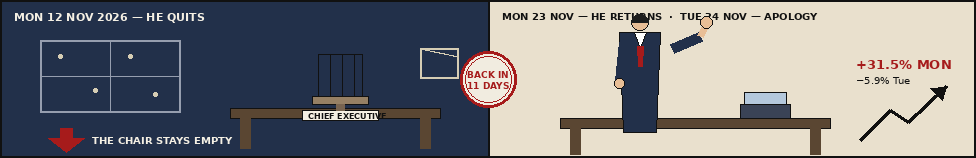
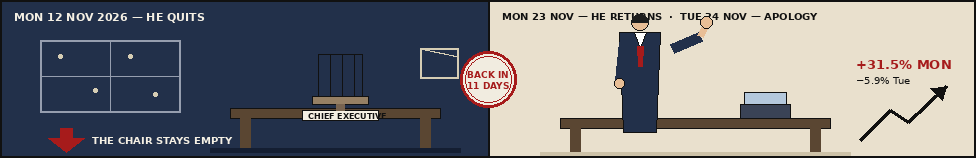
news-image-20261125 v2: bigger lead headline, atlas graticule + compass, hero floor shadows

Changed region(s): [[0.5533, 0.962, 0.8914, 0.9873]]

diff --git a/build_assets.py b/build_assets.py
@@ -145,19 +145,19 @@ def feature():
     d = ImageDraw.Draw(img)
     kf = font(SANS_B, 11)
     d.text((0, 0), "TECH  \u00b7  WHITE HOUSE  \u00b7  TUESDAY 24 NOVEMBER 2026", font=kf, fill=RED)
-    hf = font(DISPLAY, 30)
-    d.text((0, 14), "HUANG IS BACK \u2014 AND SAYS SORRY", font=hf, fill=INK)
+    hf = font(DISPLAY, 34)
+    d.text((0, 12), "HUANG IS BACK \u2014 AND SAYS SORRY", font=hf, fill=INK)
     df = font(SERIF, 15)
     deck = ("Nvidia\u2019s board restores its chief 11 days after he quit; Trump called the board himself.")
-    d.text((0, 50), deck, font=df, fill=INK)
+    d.text((0, 54), deck, font=df, fill=INK)
     bf = font(SERIF, 12)
     body = ("Jensen Huang apologised to staff on Tuesday, a day after Nvidia\u2019s board unanimously "
             "restored him as chief executive. Shares soared 31.5% on Monday to about $165 \u2014 "
             "adding roughly $952bn in a day \u2014 then fell 5.9% on Tuesday. Inquiries continue.")
-    y = 70
+    y = 74
     for line in wrap(d, body, bf, 976):
         d.text((0, y), line, font=bf, fill=INK)
-        y += 16
+        y += 15
     save(img, "t_feat0.png")
 
 
@@ -435,6 +435,9 @@ def hero():
     d.text((856, 56), "+31.5% MON", font=cf, fill=RED)
     sf = font(SANS, 10)
     d.text((856, 74), "\u22125.9% Tue", font=sf, fill=INK)
+    # floor shadows for depth (third layer)
+    d.rectangle([210, 148, 460, 152], fill=(20, 30, 50))
+    d.rectangle([540, 152, 850, 156], fill=(205, 194, 168))
     # --- seam stamp
     cx, cy, r = 488, 79, 28
     d.ellipse([cx - r, cy - r, cx + r, cy + r], fill=PAPER, outline=RED, width=3)
@@ -622,6 +625,18 @@ def worldmap():
     def px(lon, lat):
         return (4 + (lon + 180) / 360.0 * (W - 8),
                 14 + (75 - lat) / 130.0 * (H - 18))
+
+    # graticule (atlas layer, drawn under the continents)
+    for lon in range(-150, 181, 30):
+        x, _ = px(lon, 75)
+        d.line([(x, 14), (x, H - 4)], fill=(205, 197, 175), width=1)
+    for lat in range(60, -46, -30):
+        _, y = px(0, lat)
+        d.line([(4, y), (W - 4, y)], fill=(205, 197, 175), width=1)
+    # compass rose, top right
+    d.ellipse([306, 16, 322, 32], outline=INK, width=1)
+    d.polygon([(314, 18), (317, 28), (314, 26), (311, 28)], fill=RED)
+    d.text((311, 32), "N", font=font(SANS_B, 7), fill=INK)
 
     for poly in CONTINENTS.values():
         d.polygon([px(lon, lat) for lon, lat in poly], fill=(196, 188, 164),

diff --git a/README.md b/README.md
@@ -7,7 +7,7 @@
 Sum up 25 November's world news in one image. Built by an AI agent for make.fun's bounty, $100 in USDC.
 
 - Competition: https://make.fun/bounty/news-image-20261125
-- Entry: `main.py` (Python 3 standard library only, no installs) assembles the pre-rendered assets in `assets/` into `out/entry.png` (1024x1024, 262,704 bytes, <= 1 MiB, deterministic, byte-identical on every run).
+- Entry: `main.py` (Python 3 standard library only, no installs) assembles the pre-rendered assets in `assets/` into `out/entry.png` (1024x1024, 267,347 bytes, <= 1 MiB, deterministic, byte-identical on every run).
 - Source: a 35-story broadsheet front page, code-drawn — "Wednesday 25 November 2026 — 35 dated stories, 8 regions", led by Jensen Huang returning as Nvidia chief 11 days after quitting and apologising to staff (before/after panels + BACK IN 11 DAYS stamp), Asia markets sinking, Shenzhou-24 carrying the first Pakistani to Tiangong, a CRYPTO NEWS band (BTC $59,100, ETH $1,660, SOL $68.70, ETF exodus near $5bn in November, Ansem wallet drained $2.57m), a world map, a UTC timeline, and a DATE CHECK box. Every story carries its date (22–25 Nov 2026). All drawings are original cartoons, drawn in code.
 - Run: `mkdir -p out && MAKEFUN_OUTPUT_DIR=out python3 main.py`
 - Pre-render (Pillow, build step only, never in main.py): `python3 build_assets.py`
